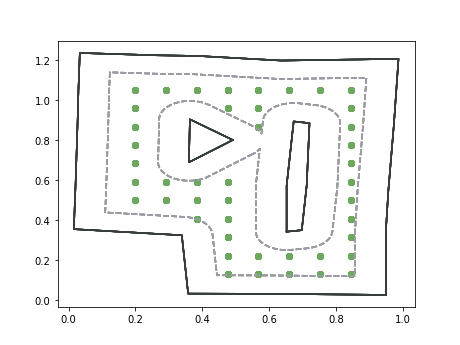
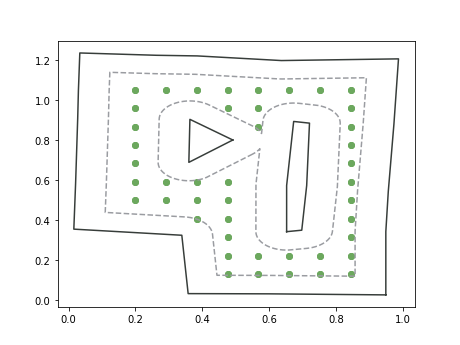
improved valid zone geojson file generation to include one polygon with holes

diff --git a/Boundaries.py b/Boundaries.py
@@ -57,15 +57,21 @@ class Boundaries:
 
 
     def get_buffer_geojson_string(self):
-        # list of polygon objects from the buffer
-        list_of_buffer_features = []
-        # first get the boundary
-        list_of_buffer_features.append(geojson.Feature(geometry=mapping(self.boundary_buffer)))
+        inners = []
         for poly in self.obstacle_buffer.geoms:
-            # then add each poly in the obstacle multipolygon
-            list_of_buffer_features.append(geojson.Feature(geometry=mapping(poly)))
-        buffer_fcollection = geojson.FeatureCollection(list_of_buffer_features)
-        return str(buffer_fcollection)
+            inners.append(poly)
+        outer = self.boundary_buffer
+        valid_zone = Polygon(outer.exterior.coords, [inner.exterior.coords for inner in inners])
+        valid_zone_feature = geojson.Feature(geometry=mapping(valid_zone))
+        valid_zone_fcollection = geojson.FeatureCollection([valid_zone_feature])
+
+        # # first get the boundary
+        # list_of_buffer_features.append(geojson.Feature(geometry=mapping(self.boundary_buffer)))
+        # for poly in self.obstacle_buffer.geoms:
+        #     # then add each poly in the obstacle multipolygon
+        #     list_of_buffer_features.append(geojson.Feature(geometry=mapping(poly)))
+        # buffer_fcollection = geojson.FeatureCollection(list_of_buffer_features)
+        return str(valid_zone_fcollection)
 
 
 
